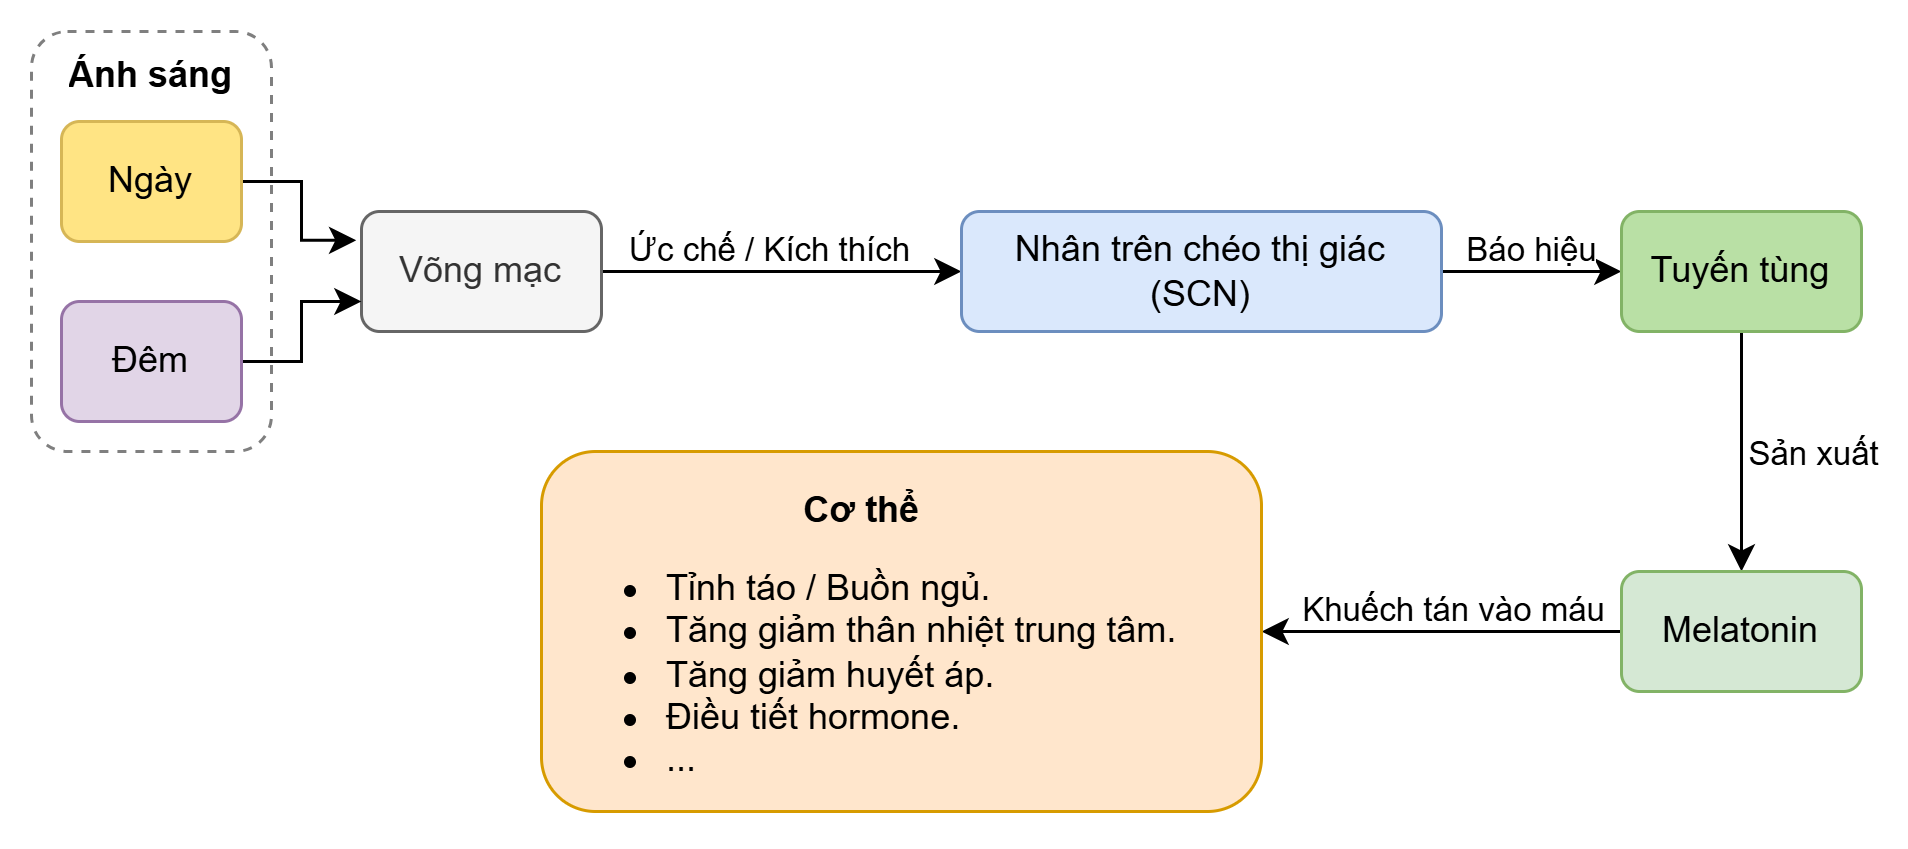
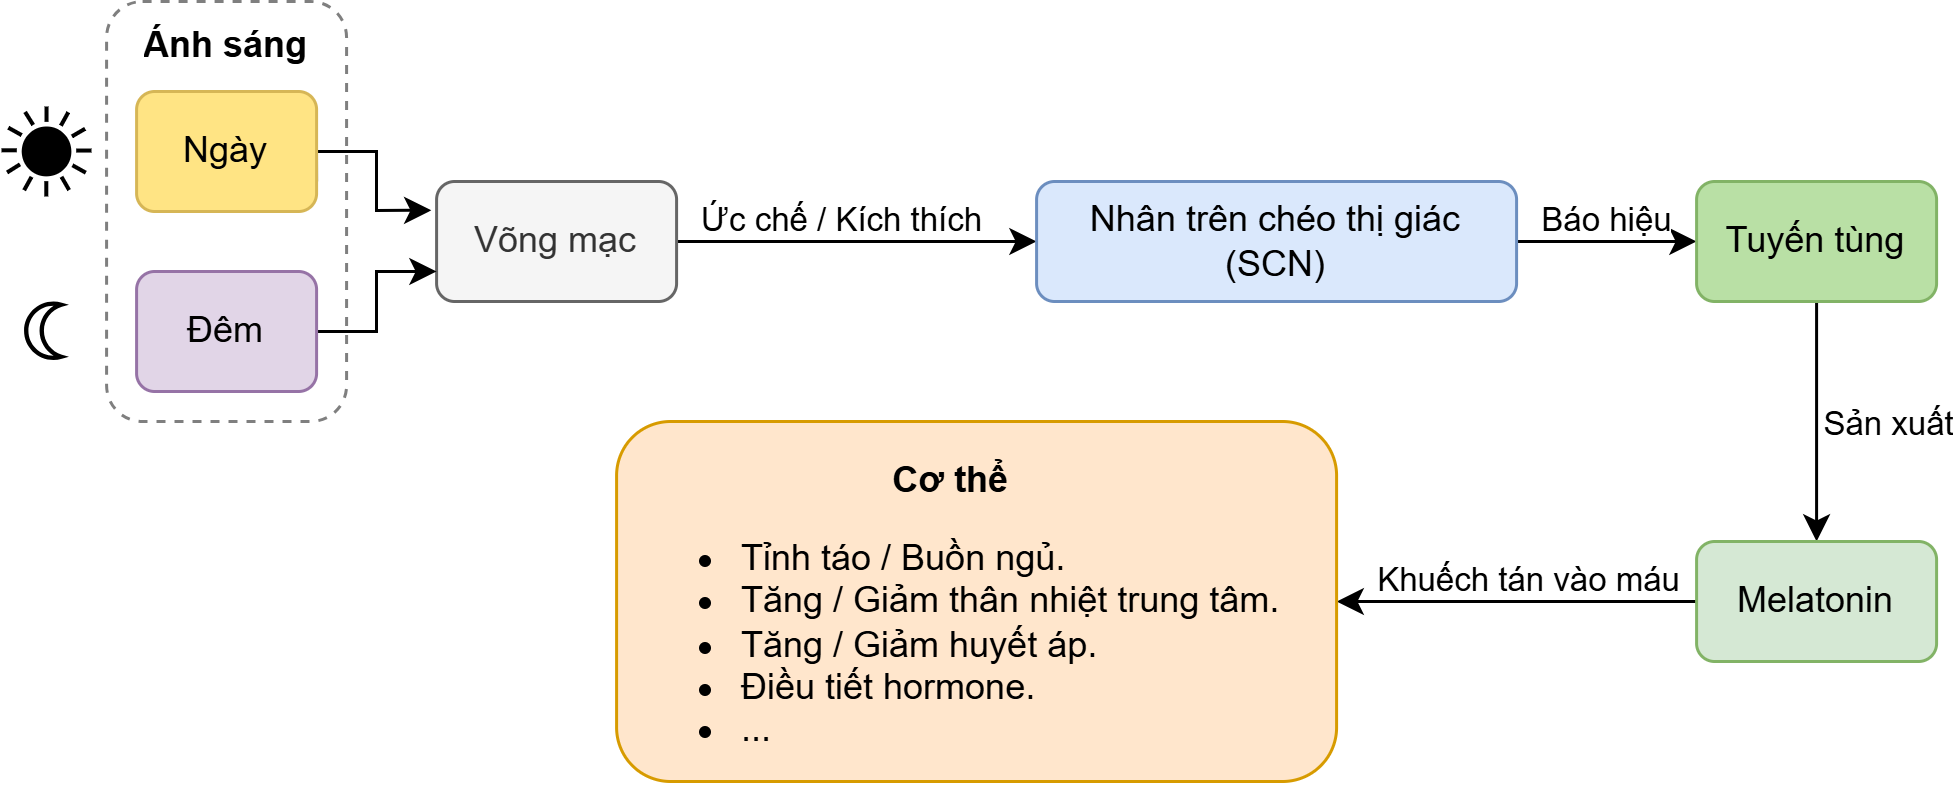
Fixing content 2

diff --git a/docs/TaiSaoChungTaNgu/CoCheCuaGiacNgu/CacBoPhanCuaBoNaoLienQuanDenGiacNgu.md b/docs/TaiSaoChungTaNgu/CoCheCuaGiacNgu/CacBoPhanCuaBoNaoLienQuanDenGiacNgu.md
@@ -10,16 +10,19 @@ nav_order: 5
 
 ## Nhân trên chéo thị giác
 
-**Nhân trên chéo thị giác (Suprachiasmatic Nucleus – SCN)** là trung tâm điều khiển nhịp sinh học. Đây là một cụm tế bào thần kinh nhỏ nằm ở giữa não, phía trên [vùng giao thoa thị giác (optic chiasm)](https://vi.wikipedia.org/wiki/Giao_thoa_th%E1%BB%8B_gi%C3%A1c) trong não, nơi giao nhau của các dây thần kinh thị giác.
+**Nhân trên chéo thị giác (Suprachiasmatic Nucleus – SCN)*- là trung tâm điều khiển nhịp sinh học. Đây là một cụm tế bào thần kinh nhỏ nằm ở giữa não, phía trên [vùng giao thoa thị giác (optic chiasm)](https://vi.wikipedia.org/wiki/Giao_thoa_th%E1%BB%8B_gi%C3%A1c) trong não, nơi giao nhau của các dây thần kinh thị giác.
 
 Nhân trên chéo thị giác sẽ nhận tín hiệu trực tiếp từ võng mạc (thông qua vùng giao thoa thị giác), từ đó điều hòa nhịp sinh học bằng cách gửi tín hiệu kích hoạt tuyến tùng (pineal gland) trong não để tăng hoặc giảm việc tiết hormone [melatonin]({{ "/docs/TaiSaoChungTaNgu/CoCheCuaGiacNgu/NhipSinhHoc/#melatonin" | relative_url }}).
 
 <figure>
   <img
-    src="{{ site.baseurl }}\assets\images\Suprachiasmatic_Nucleus.jpg"
+    src="{{ site.baseurl }}\assets\images\Suprachiasmatic_Nucleus_And_Optic_Chiasm.jpg"
+  />
+  <img
+    src="{{ site.baseurl }}\assets\images\Suprachiasmatic_Nucleus_And_Optic_Chiasm_2.png"
   />
   <figcaption>Vị trí của nhân trên chéo thị giác trong não người.<br>
-  Vỏ não (Cerebral cortex), Nhân trên chéo thị giác (Suprachiasmatic nucleus),  Giao thoa thị giác (Optic chiasm),<br>Vùng dưới đồi (Hypothalamus), Tuyến tùng (Pineal gland).<br>
+  Vỏ não (Cerebral cortex), Nhân trên chéo thị giác (Suprachiasmatic nucleus), Giao thoa thị giác (Optic chiasm),<br>Vùng dưới đồi (Hypothalamus), Tuyến tùng (Pineal gland).<br>
   Nguồn: <a href="https://en.wikipedia.org/wiki/Suprachiasmatic_nucleus" target="_blank">Suprachiasmatic nucleus - Wikipedia</a> 
   </figcaption>
 </figure>
@@ -35,8 +38,18 @@ Nhân trên chéo thị giác sẽ nhận tín hiệu trực tiếp từ võng m
 ---
 
 ## Tuyến tùng
-
+{: #pineal-gland}
 Tuyến tùng (Pineal gland) là một tuyến nội tiết nhỏ nằm sâu trong trung tâm não, gần vùng đồi thị. Nó đóng vai trò quan trọng trong việc điều hòa nhịp sinh học của cơ thể. Chức năng chính của tuyến tùng là sản xuất hormone [melatonin]({{ "/docs/TaiSaoChungTaNgu/CoCheCuaGiacNgu/NhipSinhHoc/#melatonin" | relative_url }}).
+
+<figure>
+  <img
+    src="{{ site.baseurl }}\assets\images\Pineal_gland.jpg"
+  />
+  <figcaption>Vị trí của nhân trên chéo thị giác trong não người.<br>
+  Vỏ não (Cerebral cortex), Nhân trên chéo thị giác (Suprachiasmatic nucleus), Giao thoa thị giác (Optic chiasm),<br>Vùng dưới đồi (Hypothalamus), Tuyến tùng (Pineal gland).<br>
+  Nguồn: <a href="https://en.wikipedia.org/wiki/Suprachiasmatic_nucleus" target="_blank">Suprachiasmatic nucleus - Wikipedia</a> 
+  </figcaption>
+</figure>
 
 ---
 
@@ -55,7 +68,7 @@ Tuyến tùng (Pineal gland) là một tuyến nội tiết nhỏ nằm sâu tro
 
 Chức năng nổi bật nhất của đồi thị là **trung chuyển và kiểm soát thông tin cảm giác**. Hầu hết các tín hiệu từ cơ thể như xúc giác, thị giác, thính giác, vị giác, cảm giác đau và nhiệt độ đều phải đi qua đồi thị trước khi đến vỏ não để được nhận thức. Không chỉ đơn thuần truyền tín hiệu, đồi thị còn đóng vai trò như một "bộ lọc", quyết định thông tin nào được phép đi tiếp, từ đó giúp não tránh bị quá tải bởi kích thích từ môi trường.
 
-Ngoài cảm giác, đồi thị còn tham gia vào **điều phối vận động** bằng cách nhận tín hiệu từ tiểu não và hạch nền, rồi chuyển tiếp đến vỏ não vận động để tinh chỉnh cử động. Đồng thời, nó góp phần quan trọng trong việc **điều hòa trạng thái ý thức và cảm xúc**, thông qua liên kết với hệ viền (limbic system) và tham gia vào việc duy trì chu kỳ ngủ – thức.
+Ngoài cảm giác, đồi thị còn tham gia vào **điều phối vận động*- bằng cách nhận tín hiệu từ tiểu não và hạch nền, rồi chuyển tiếp đến vỏ não vận động để tinh chỉnh cử động. Đồng thời, nó góp phần quan trọng trong việc **điều hòa trạng thái ý thức và cảm xúc**, thông qua liên kết với hệ viền (limbic system) và tham gia vào việc duy trì chu kỳ ngủ – thức.
 
 Khi đồi thị bị tổn thương, các chức năng này có thể bị ảnh hưởng nghiêm trọng. Người bệnh có thể gặp rối loạn cảm giác (mất cảm giác hoặc đau bất thường), rối loạn vận động (run, yếu cơ), hoặc hội chứng đồi thị (thalamic syndrome) với cơn đau dữ dội khó kiểm soát. Trong trường hợp nặng, tổn thương đồi thị còn có thể làm suy giảm ý thức, dẫn đến trạng thái ngủ rũ (narcolepsy) hoặc hôn mê.
 
@@ -82,13 +95,77 @@ Về cấu trúc, neocortex gồm nhiều lớp tế bào thần kinh (thường
 
 ---
 
+## Vùng dưới đồi
+{: #hypothalamus }
+Vùng dưới đồi (Hypothalamus) là một vùng não sâu nằm ngay phía trước thân não. Nó đóng vai trò như **"trung tâm điều khiển"*- giúp duy trì trạng thái cân bằng nội môi (homeostasis).
+
+Nó là cầu nối giữa **hệ thần kinh và hệ nội tiết**, hoạt động bằng cách:
+- Điều khiển hệ thần kinh tự động (nhịp tim, hô hấp, huyết áp,...).
+- Sản xuất và điều phối hormone thông qua tuyến yên.
+
+**Các chức năng chính:**
+- Điều hòa nhiệt độ cơ thể.
+- Kiểm soát đói, khát và cảm giác no.
+- Ảnh hưởng tâm trạng, ham muốn tình dục.
+- Điều chỉnh giấc ngủ và nhịp sinh học.
+- Kiểm soát huyết áp và nhiều chức năng sống quan trọng.
+
+**Nếu bị rối loạn hoặc tổn thương**, vùng dưới đồi có thể gây ra nhiều vấn đề như:
+- Rối loạn hormone (ảnh hưởng tăng trưởng, sinh sản,...).
+- Mất cân bằng nước, huyết áp.
+- Rối loạn giấc ngủ, thân nhiệt.
+- Các bệnh như [đái tháo nhạt](https://tamanhhospital.vn/benh/dai-thao-nhat/) hoặc [rối loạn tuyến yên](https://tamanhhospital.vn/benh/roi-loan-tuyen-yen/).
+
+<figure>
+  <img
+    src="{{ site.baseurl }}\assets\images\Hypothalamus.jpg"
+  />
+  <figcaption>Vùng dưới đồi (Hypothalamus), Thể vòm của hồi hải mã (Fornix of hippocampus), Đồi thị (Thalamus), Cầu não (Pons), Giao thoa thị giác (Optic chiasm), Tuyến yên trước (Anterior pituitary), Tuyến yên sau (Posterior pituitary).<br>
+  Nguồn: <a href="https://my.clevelandclinic.org/health/body/22566-hypothalamus" target="_blank">Hypothalamus: What It Is, Function, Conditions & Disorders - Cleveland Clinic</a> 
+  </figcaption>
+</figure>
+
+Đọc thêm: [Hypothalamus: What It Is, Function, Conditions & Disorders - Cleveland Clinic](https://my.clevelandclinic.org/health/body/22566-hypothalamus?utm_source=chatgpt.com)
+
+---
+
 ## Hồi hải mã
 
-Đồi hải mã (Hippocampus) là nơi lưu trữ tạm thời các ký ức mới (thông tin, trải nghiệm mới). Vùng này có dung lượng hạn chế và không ổn định về lâu dài.
+Hồi hải mã (hippocampus) là một cấu trúc nhỏ trong não (thuộc thùy thái dương và hệ viền), là nơi lưu trữ tạm thời các ký ức mới (thông tin, trải nghiệm mới), có vai trò cốt lõi trong **học tập và trí nhớ**.
+
+**Chức năng chính:**
+- Chuyển đổi trí nhớ ngắn hạn thành ký ức dài hạn (tổ chức, lưu trữ, truy xuất thông tin).
+- Hỗ trợ học tập và nhận thức môi trường.
+- Ghi nhớ không gian (định vị, điều hướng) và ngôn ngữ (chọn từ phù hợp).
+- Tham gia trí nhớ tường minh (sự kiện, trải nghiệm).
+
+**Đặc điểm & liên kết:**
+- Có hai hồi hải mã (trái và phải), nằm sâu trong thùy thái dương.
+- Thuộc **hệ viền**, phối hợp với các vùng như [hạch hạnh nhân (amygdala)]({{ "/docs/TaiSaoChungTaNgu/CoCheCuaGiacNgu/CacBoPhanCuaBoNaoLienQuanDenGiacNgu/#amygdala" | relative_url }}) để gắn trí nhớ với cảm xúc.
+- Có dung lượng hạn chế và không ổn định về lâu dài.
+
+**Khi bị tổn thương:**
+- Gây **mất trí nhớ**, khó tạo ký ức mới, rối loạn nhận thức.
+- Liên quan đến các bệnh như Alzheimer, sa sút trí tuệ, động kinh, PTSD,...
+
+**Cách bảo vệ:**
+- Duy trì lối sống lành mạnh: ngủ đủ, tập thể dục, học hỏi, giảm stress.
+
+<figure>
+  <img
+    src="{{ site.baseurl }}\assets\images\Hippocampus.jpg"
+  />
+  <figcaption>Hồi hải mã (Hippocampus), Hồi đai (Cingulate gyrus), Đồi thị (Thalamus), Hạch hạnh nhân (Amygdala), Hệ viền (Limbic system), Chức năng của hồi hải mã (Functions of the hippocampus), Trí nhớ ngắn hạn và dài hạn (Short and long-term memory), Học tập (Learning), Trí nhớ không gian (Spatial memory).<br>
+  Nguồn: <a href="https://my.clevelandclinic.org/health/body/hippocampus" target="_blank">Hippocampus: What It Is, Function, Location & Damage - Cleveland Clinic</a> 
+  </figcaption>
+</figure>
+
+Đọc thêm: [Hippocampus: What It Is, Function, Location & Damage - Cleveland Clinic](https://my.clevelandclinic.org/health/body/hippocampus)
 
 ---
 
 ## Hạch hạnh nhân
+{: #amygdala }
 
 Hạch hạnh nhân (Amygdala): có vai trò kích thích các cảm xúc mạnh mẽ (giận giữ, hung hăng); có liên quan đến phản ứng chiến-hay-chạy (the fight or flight response). 
 

diff --git a/docs/NhungAnhHuongCuaMatNgu/BeoPhi.md b/docs/NhungAnhHuongCuaMatNgu/BeoPhi.md
@@ -45,7 +45,7 @@ Thiếu ngủ làm rối loạn trực tiếp hệ hormone kiểm soát cảm gi
 
 Không chỉ dừng ở mức hormone, thiếu ngủ còn làm suy yếu khả năng kiểm soát của não bộ.
 - **Giảm hoạt động** của vỏ não trước (prefrontal cortex) - vùng chịu trách nhiệm cho **lý trí và kiểm soát hành vi**.
-- **Tăng hoạt động** của các vùng não liên quan đến **hệ thống phần thưởng** (vùng dưới đồi "hypothalamus" và các khu vực khác).
+- **Tăng hoạt động** của các vùng não liên quan đến **hệ thống phần thưởng** ([vùng dưới đồi]({{ "/docs/TaiSaoChungTaNgu/CoCheCuaGiacNgu/CacBoPhanCuaBoNaoLienQuanDenGiacNgu/#hypothalamus" | relative_url }}) và các khu vực khác).
 
 Điều này tạo ra sự mất cân bằng: "Giảm lý trí, tăng bản năng", khiến con người dễ bị cuốn vào các lựa chọn ăn uống kém lành mạnh, đặc biệt là thức ăn nhanh. Đồng thời, mức endocannabinoids (các chất nội sinh có tác dụng tương tự cần sa) tăng cao, càng khuếch đại cảm giác ngon miệng và ham muốn ăn.
 

diff --git a/docs/NhungGiaiPhapChoGiacNgu/index.md b/docs/NhungGiaiPhapChoGiacNgu/index.md
@@ -37,7 +37,7 @@ has_children: true
 
 10. **Tạo môi trường phòng ngủ tối, mát mẻ và không thiết bị điện tử:** Hãy loại bỏ mọi thứ gây xao nhãng như tiếng ồn, ánh sáng mạnh, giường không thoải mái hoặc nhiệt độ quá ấm. Điện thoại và tivi là những tác nhân gây mất ngủ nghiêm trọng. Nếu bạn hay lo lắng về thời gian, hãy **quay mặt đồng hồ đi** để không nhìn thấy nó khi đang cố ngủ.
 
-11. **Tiếp xúc hợp lý với ánh sáng mặt trời:** Ánh sáng ban ngày là chìa khóa để điều chỉnh nhịp sinh học. Hãy cố gắng ra ngoài ít nhất **30 phút mỗi ngày** và nếu có thể, hãy thức dậy cùng ánh mặt trời hoặc sử dụng đèn cường độ sáng cao vào buổi sáng.
+11. **Tiếp xúc hợp lý với ánh sáng Mặt Trời:** Ánh sáng ban ngày là chìa khóa để điều chỉnh nhịp sinh học. Hãy cố gắng ra ngoài ít nhất **30 phút mỗi ngày** và nếu có thể, hãy thức dậy cùng ánh Mặt Trời hoặc sử dụng đèn cường độ sáng cao vào buổi sáng.
 
 12. **Đừng nằm trên giường khi vẫn thức:** Nếu bạn vẫn tỉnh táo sau 20 phút nằm trên giường hoặc bắt đầu cảm thấy lo lắng, hãy **rời khỏi giường** và thực hiện một hoạt động thư giãn nhẹ nhàng cho đến khi thấy buồn ngủ trở lại. Sự lo lắng vì không ngủ được sẽ càng khiến việc đi vào giấc ngủ trở nên khó khăn hơn.
 

diff --git a/docs/NhungThuPhaHoaiGiacNgu/NhietDo.md b/docs/NhungThuPhaHoaiGiacNgu/NhietDo.md
@@ -45,7 +45,7 @@ Khác với nhiệt độ da dễ bị tác động bởi môi trường, thân 
 
 ## Cơ chế điều khiển của não bộ
 
-**Vùng dưới đồi (hypothalamus)** trong não chứa các tế bào nhạy cảm với nhiệt độ. Khi thân nhiệt trung tâm giảm xuống vào buổi tối, các tế bào này sẽ gửi tín hiệu đến **nhân trên chéo thị giác (SCN)**, thông báo cho não bộ kích hoạt sự gia tăng **melatonin**. Như vậy, sự giải phóng melatonin không chỉ do ánh sáng giảm đi chỉ dẫn mà còn do sự sụt giảm nhiệt độ cơ thể phối hợp nhịp nhàng với chu kỳ mặt trời lặn.
+[Vùng dưới đồi (hypothalamus)]({{ "/docs/TaiSaoChungTaNgu/CoCheCuaGiacNgu/CacBoPhanCuaBoNaoLienQuanDenGiacNgu/#hypothalamus" | relative_url }}) trong não chứa các tế bào nhạy cảm với nhiệt độ. Khi thân nhiệt trung tâm giảm xuống vào buổi tối, các tế bào này sẽ gửi tín hiệu đến **nhân trên chéo thị giác (SCN)**, thông báo cho não bộ kích hoạt sự gia tăng **melatonin**. Như vậy, sự giải phóng melatonin không chỉ do ánh sáng giảm đi chỉ dẫn mà còn do sự sụt giảm nhiệt độ cơ thể phối hợp nhịp nhàng với chu kỳ Mặt Trời lặn.
 
 ---
 

diff --git a/docs/TaiSaoChungTaNgu/CoCheCuaGiacNgu/index.md b/docs/TaiSaoChungTaNgu/CoCheCuaGiacNgu/index.md
@@ -8,7 +8,7 @@ has_children: true
 # Giấc ngủ hoạt động thế nào?
 
 Giấc ngủ của con người được điều khiển bởi hai cơ chế chính: [nhịp sinh học]({{ "/docs/TaiSaoChungTaNgu/CoCheCuaGiacNgu/NhipSinhHoc/" | relative_url }}) và [áp lực ngủ]({{ "/docs/TaiSaoChungTaNgu/CoCheCuaGiacNgu/ApLucNgu/" | relative_url }}).
-- **Nhịp sinh học** là "đồng hồ nội tại" hoạt động theo chu kỳ ngày–đêm, giúp cơ thể biết khi nào nên tỉnh táo hay buồn ngủ; nó chịu ảnh hưởng mạnh từ ánh sáng môi trường. Khi nhịp này bị lệch, chẳng hạn như khi di chuyển qua múi giờ khác, hiện tượng [jet lag]({{ "/docs/TaiSaoChungTaNgu/CoCheCuaGiacNgu/NhipSinhHoc/Jetlag/" | relative_url }}) xảy ra, khiến cơ thể buồn ngủ hoặc tỉnh táo không đúng thời điểm.
+- **Nhịp sinh học** là "đồng hồ nội tại" hoạt động theo chu kỳ ngày – đêm, giúp cơ thể biết khi nào nên tỉnh táo hay buồn ngủ; nó chịu ảnh hưởng mạnh từ ánh sáng môi trường. Khi nhịp này bị lệch, chẳng hạn như khi di chuyển qua múi giờ khác, hiện tượng [jet lag]({{ "/docs/TaiSaoChungTaNgu/CoCheCuaGiacNgu/NhipSinhHoc/Jetlag/" | relative_url }}) xảy ra, khiến cơ thể buồn ngủ hoặc tỉnh táo không đúng thời điểm.
 - Trong khi đó, **áp lực ngủ** tích lũy dần theo thời gian thức: càng thức lâu, nhu cầu ngủ càng tăng, buộc cơ thể phải đi vào giấc ngủ để phục hồi.
 
[1 lines of base64/hex data omitted]